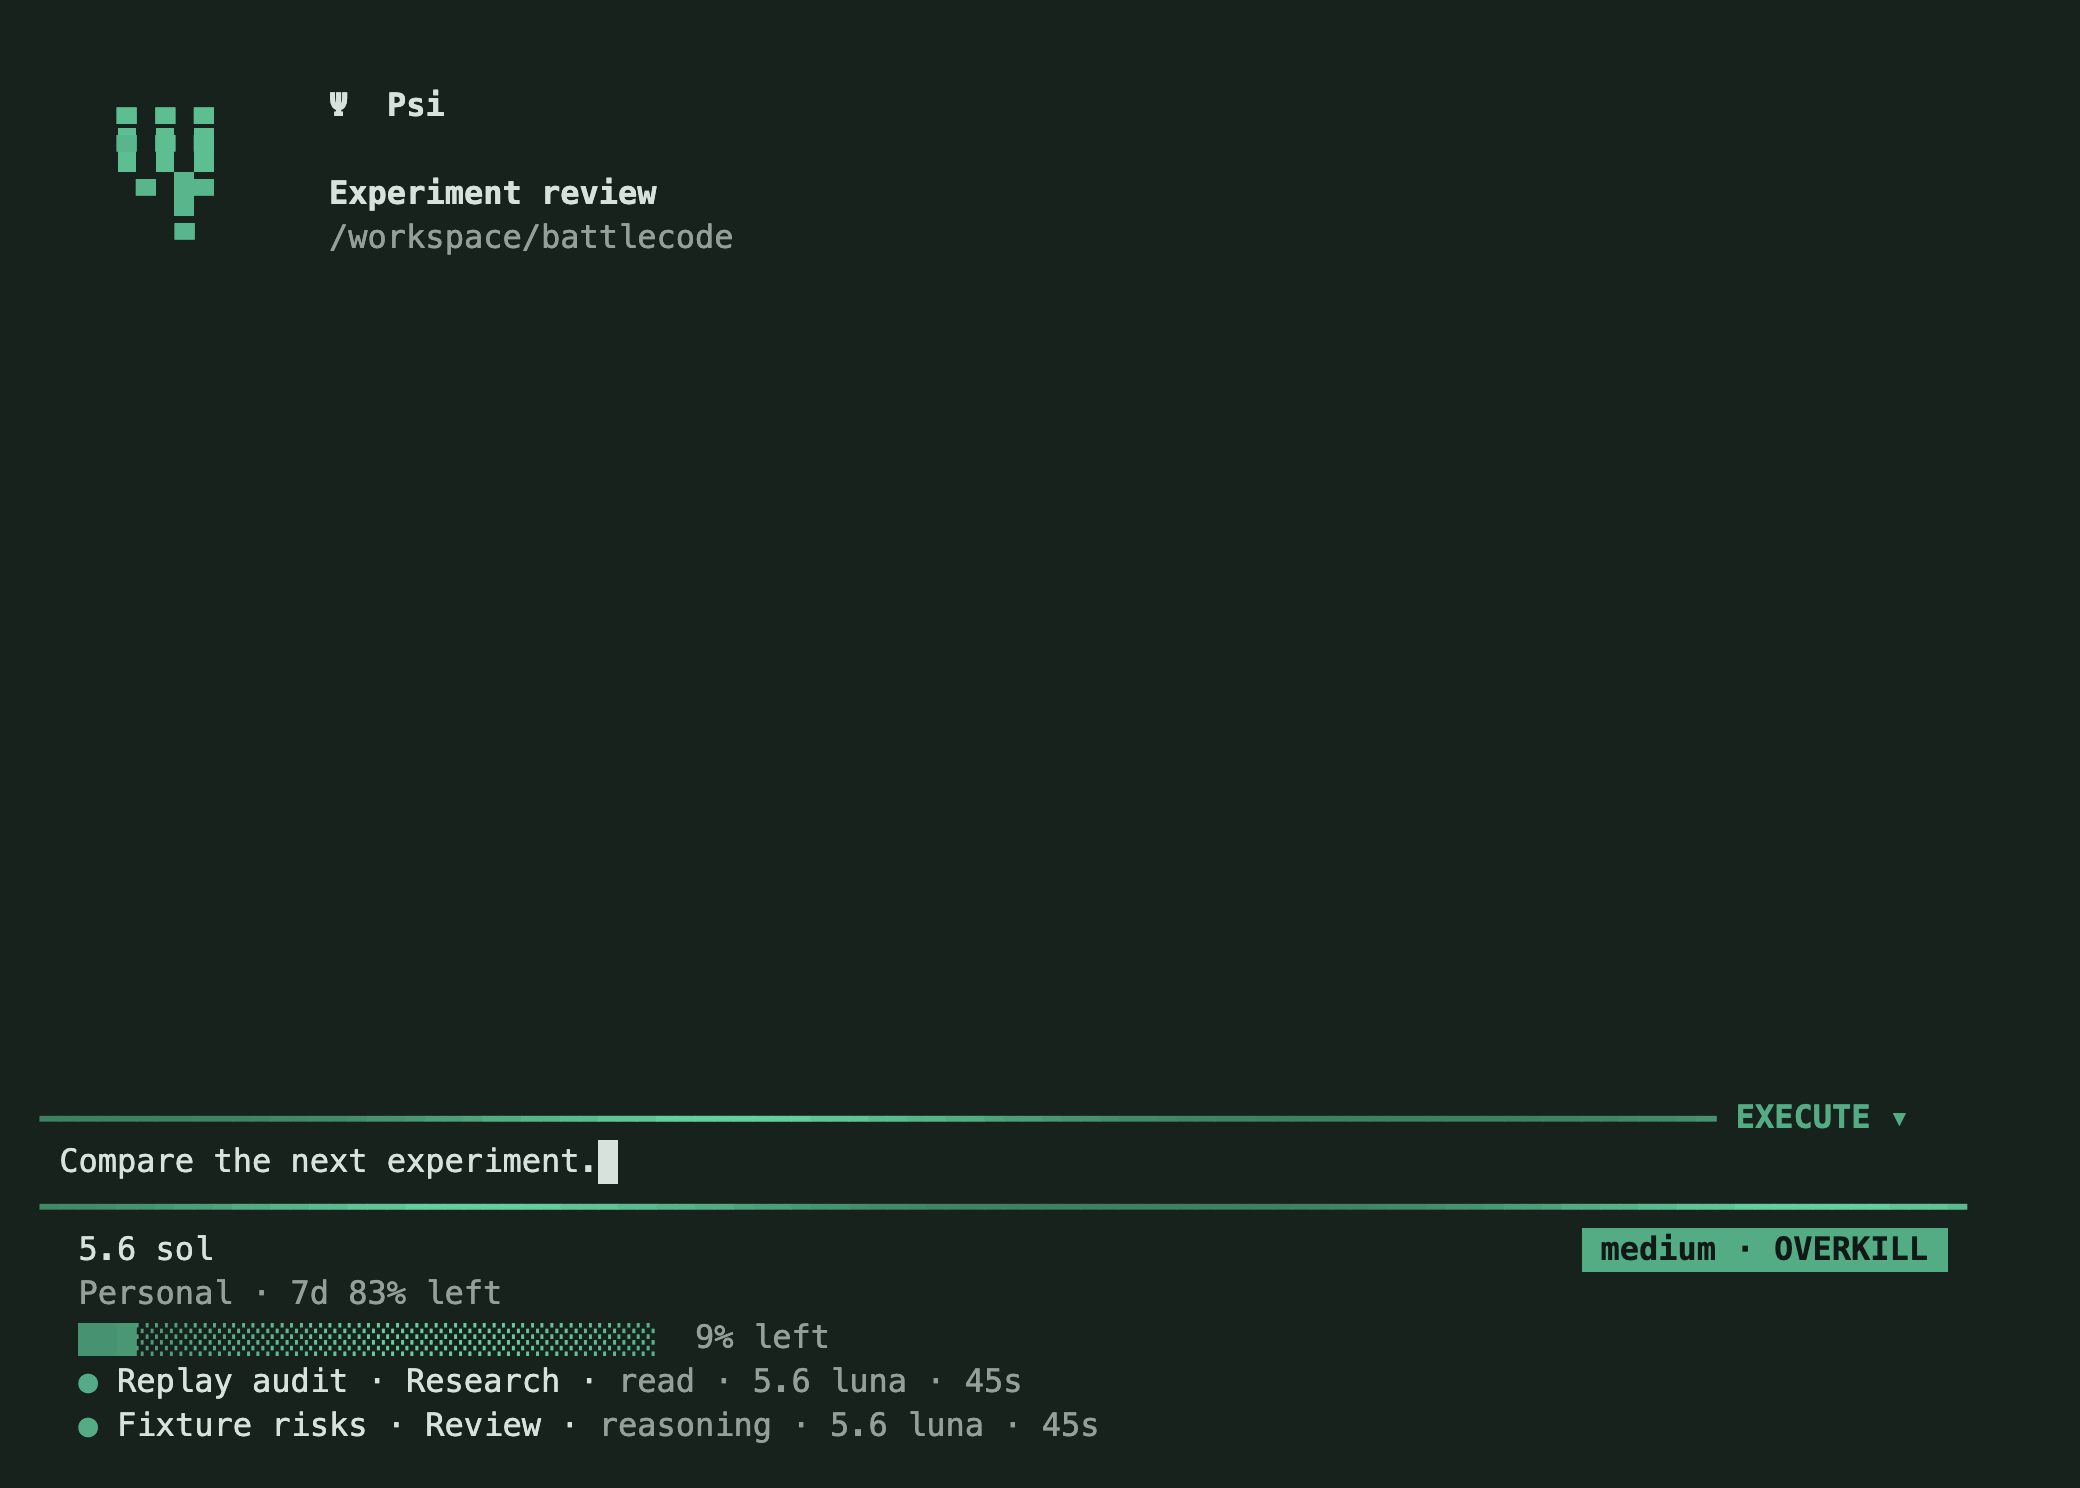
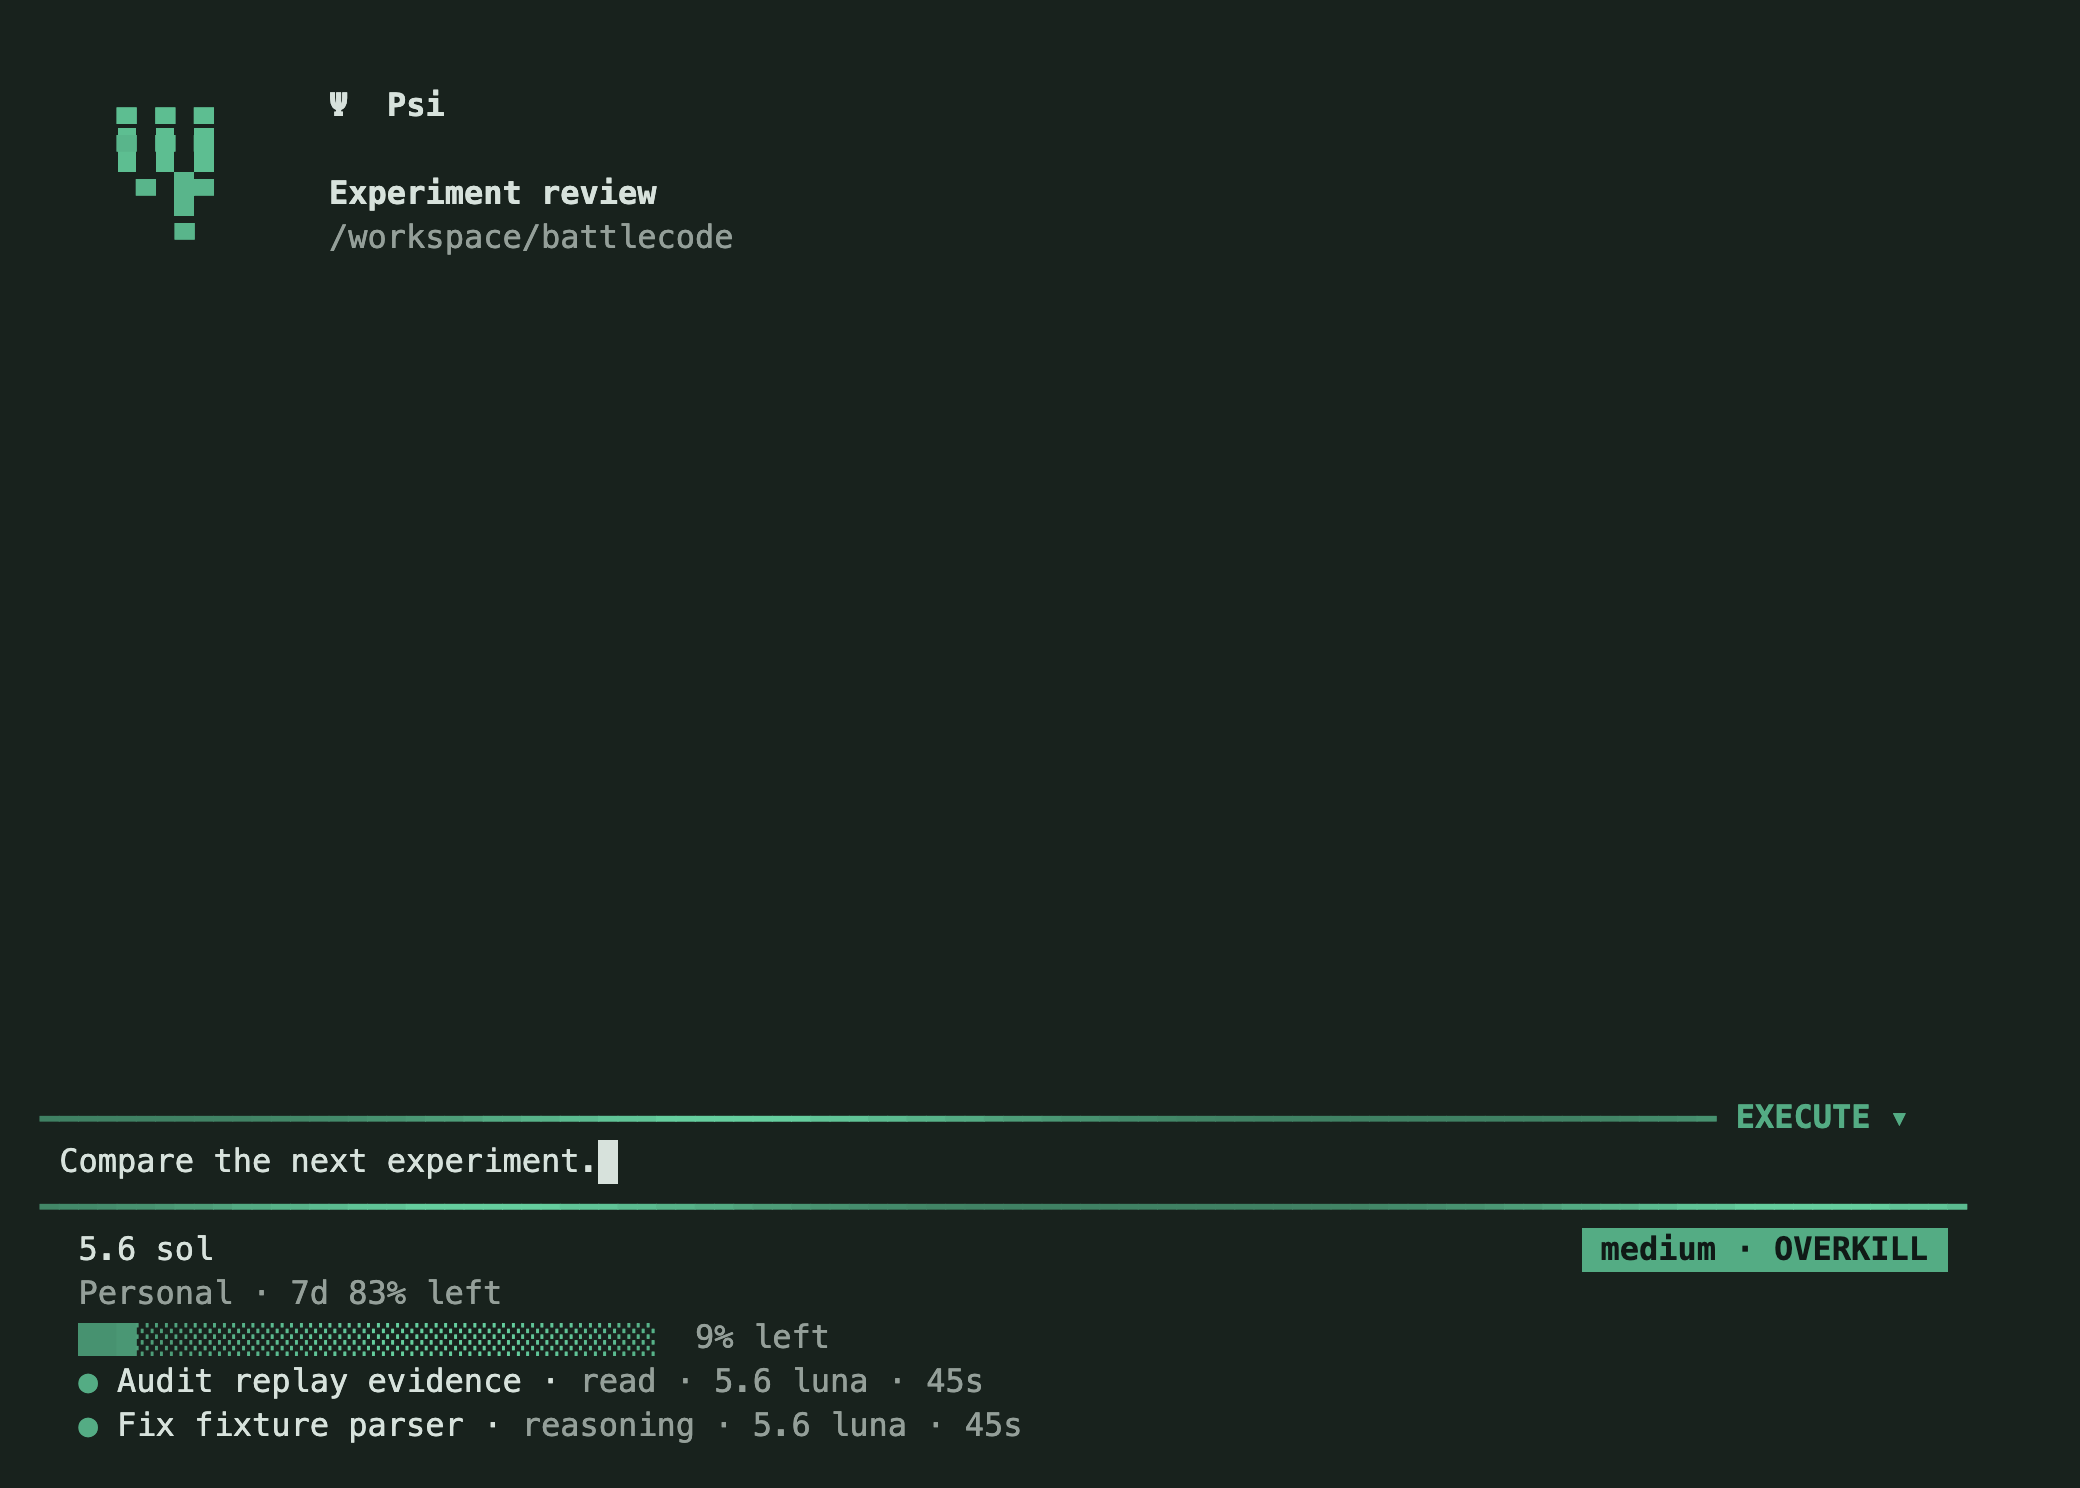
Delegate OVERKILL workers on demand with distinct task names

Changed region(s): [[0.0625, 0.9274, 0.5, 0.9892]]

diff --git a/DESIGN.md b/DESIGN.md
@@ -14,7 +14,7 @@ Use the terminal's configured monospace font. Bold distinguishes product and pic
 
 ## Layout
 
-A fullscreen terminal viewport contains the workspace header, a scrolling conversation and inline selection panel. The multiline prompt is pinned to the bottom on startup, during output and through resizes. Show the current chat name immediately above the session working directory beside the logo. At narrow widths use the compact identity with name and path on separate rows, shortening paths from the left. Task-named subagent status rows sit below the usage bar while active. Hide finished rows immediately without deleting saved records or reports. Show up to three rows, with overflow counted, active tool/status, short model name and elapsed time. The first row beneath the editor shows the model on the left and the bare effort value aligned to the right, with no provider label. A second row shows the active account name. Subscription accounts display only reported usage windows (5h/7d when supplied), omitting absent/unlimited windows. Metered API accounts display the current session cost, or cost unavailable when pricing is unknown. Place the clickable PLAN/EXECUTE control at the right edge of the top input border. Keep draft and slash completion at their native full width without a left gutter. Mode changes produce no conversation messages. The solid accent bottom meter prefers an actual reported five-hour quota, then a weekly or other valid quota. It fills according to percent left: 100% is unused and 0% is exhausted. Only the weekly quota stays beside the account name, avoiding duplication of the five-hour meter; the bar itself shows only the percent left. When no quota exists, clearly label the fallback as estimated goal work remaining. Conversation scrolling and selection use the terminal renderer; the visible document returns to shell scrollback on exit. Pickers filter immediately and expose keyboard hints. Narrow widths truncate metadata before primary actions. Tool results show short previews, with full results in session artifacts.
+A fullscreen terminal viewport contains the workspace header, a scrolling conversation and inline selection panel. The multiline prompt is pinned to the bottom on startup, during output and through resizes. Show the current chat name immediately above the session working directory beside the logo. At narrow widths use the compact identity with name and path on separate rows, shortening paths from the left. Task-named subagent status rows sit below the usage bar while active. OVERKILL enables model-directed delegation rather than launching workers at prompt submission. Require a unique descriptive name of one to five words for each assignment, without role suffixes or repeated prompt prefixes. Worker tasks are unrestricted by researcher/reviewer roles. Hide finished rows immediately without deleting saved records or reports. Show up to three rows, with overflow counted, active tool/status, short model name and elapsed time. The first row beneath the editor shows the model on the left and the bare effort value aligned to the right, with no provider label. A second row shows the active account name. Subscription accounts display only reported usage windows (5h/7d when supplied), omitting absent/unlimited windows. Metered API accounts display the current session cost, or cost unavailable when pricing is unknown. Place the clickable PLAN/EXECUTE control at the right edge of the top input border. Keep draft and slash completion at their native full width without a left gutter. Mode changes produce no conversation messages. The solid accent bottom meter prefers an actual reported five-hour quota, then a weekly or other valid quota. It fills according to percent left: 100% is unused and 0% is exhausted. Only the weekly quota stays beside the account name, avoiding duplication of the five-hour meter; the bar itself shows only the percent left. When no quota exists, clearly label the fallback as estimated goal work remaining. Conversation scrolling and selection use the terminal renderer; the visible document returns to shell scrollback on exit. Pickers filter immediately and expose keyboard hints. Narrow widths truncate metadata before primary actions. Tool results show short previews, with full results in session artifacts.
 
 ## Interaction
 

diff --git a/docs/GUIDE.md b/docs/GUIDE.md
@@ -61,7 +61,7 @@ Click the mode control on the top input border, or press **Shift+Tab**, for **PL
 
 Use `/model` to type a search in the main input bar. The list and footer show model names, such as **5.6 luna**, without provider prefixes. Arrows move through matching models, Enter selects and Escape restores the draft. Duplicate display names are collapsed, preferring the current provider and then connected providers. A provider-specific query or explicit `provider/model` route remains available when you need another endpoint.
 
-Open `/effort` for a compact slider: **←/→** adjust effort, **Tab** stages the right-aligned **OVERKILL** toggle, **Enter** applies and **Escape** cancels. OVERKILL adds a flowing glow in your selected accent around the input bar. Disable Motion for a static accent. Use `/subagents` or the worker entry in `/settings` to set concurrency and edit each worker's name, job, model, thinking, plan/execute mode, request limit and budget independently. With OVERKILL enabled, every new task automatically starts available role-specific advisory workers, up to the configured concurrency. Automatic workers inspect in plan mode, which prevents conflicting edits/builds; the main agent owns implementation and can use `agent` to delegate explicitly scoped execution afterward. The configured profile mode still applies to manually delegated workers.
+Open `/effort` for a compact slider: **←/→** adjust effort, **Tab** stages the right-aligned **OVERKILL** toggle, **Enter** applies and **Escape** cancels. OVERKILL adds a flowing glow in your selected accent around the input bar. Disable Motion for a static accent. Use `/subagents` or the worker entry in `/settings` to set concurrency and edit each worker's name, job, model, thinking, plan/execute mode, request limit and budget independently. With OVERKILL enabled, submitting a prompt starts no workers. The main AI first understands the task, then uses `agent` to delegate useful independent assignments. Each spawn requires a distinct task name of one to five words, such as `Build replay viewer` or `Fix fixture parser`. Missing, generic, overlong and duplicate names are rejected. Workers can implement, debug, build, benchmark, research or do any other assigned task within their directories and mode. Omit `profile` for a general worker on the main model, or select a preset for model, effort and limits. Profile names and job templates do not bind the child to a role. The AI may explicitly choose plan or execute mode; a plan-mode parent always forces read-only children. New installations start with general-purpose worker presets; existing custom presets remain available.
 
 Worker rows below the usage bar show task names, model, active tool/response state and elapsed time. Finished workers disappear automatically; their records and results stay available in `/subagents`. At most three rows are shown; extra active workers are counted and `/subagents` exposes all runs. Completion uses filesystem events rather than inference polling. Reports are delivered at safe model boundaries and must be reviewed before the parent finishes. Interrupted parents can recover reports and deduplicated token receipts from saved journals. Double Escape stops the parent and workers.
 
@@ -118,7 +118,7 @@ Custom endpoint prices default to unknown. Use `/settings` → **API rates** to 
 | `/effort [level]` | Choose a model-supported reasoning effort |
 | `/accounts` | Login, switch or remove accounts |
 | `/directory <path>` | Select the working directory |
-| `/subagents` | Configure worker roles, independent models, thinking and limits |
+| `/subagents` | Configure worker presets, independent models, thinking and limits |
 | `/update` | Install the latest GitHub release |
 | `/settings` | Searchable settings UI for appearance, accounts, models, limits and execution |
 | `/loop [objective]` | Ask for a goal, then work until verified completion or user stop |

diff --git a/README.md b/README.md
@@ -20,7 +20,7 @@ Psi connects models, project files, build tools, browser research and experiment
 | :--- | :--- |
 | **Persistent goals** | Recover through provider failures and quota waits. Resume the journal after an interruption. |
 | **Accounts that travel with the task** | Multiple providers and multiple accounts per provider, reported quotas and optional failover. |
-| **Subagents on demand** | Task-named workers start automatically with OVERKILL. Independent roles, models and effort. |
+| **Subagents on demand** | The AI delegates concrete tasks with OVERKILL. Distinct task names, models and effort. |
 | **Tools in your workspace** | Read, edit, search, run builds, extract websites, browse and launch detached benchmarks. |
 | **Battlecode evidence** | Isolated candidates, durable experiments, replay checks and fresh-fixture confirmation. |
 
@@ -73,7 +73,7 @@ The Ψ header stays visible above compact bottom menus. Chat names sit above the
 | `/name [title]` | Rename the current session |
 | `/help` | Every command |
 
-With **OVERKILL** on, each task starts advisory subagents up to your configured concurrency. Their task names, activity and model appear below the usage bar while active; finished workers hide automatically, with results retained in `/subagents`. Reports return to the main agent before it finishes; implementation can then be delegated with explicit ownership. Subagents use their configured models and selected provider accounts and consume normal provider usage.
+With **OVERKILL** on, the main AI decides when useful independent work should be delegated, up to your configured concurrency. Sending a prompt does not launch workers. Every worker has a unique task name of one to five words and can implement, debug, test, benchmark or research. Their task names, activity and model appear below the usage bar while active; finished workers hide automatically, with results retained in `/subagents`. Reports return to the main agent before it finishes; each assignment includes clear ownership. Subagents use their configured models and selected provider accounts and consume normal provider usage.
 
 Answers use clean Markdown without repeated assistant headings. Reads and searches group under **Exploring / Explored**; commands use **Running / Ran** with indented output. **Ctrl+T** expands tool details.
 

diff --git a/docs/VERIFICATION.md b/docs/VERIFICATION.md
@@ -2,7 +2,7 @@
 
 Verified locally on 2026-10-31 (Australia/Sydney), using isolated temporary homes for tests.
 
-- `npm run verify`: syntax checks and **119 passing tests**.
+- `npm run verify`: syntax checks and **120 passing tests**.
 - Real HTTP SSE requests to a local OpenAI-compatible fixture executed file writes, a detached shell job, website extraction and objective completion. No paid inference was used.
 - A new process can reconstruct messages, usage, pending goals and tool outcomes from the session journal.
 - Tested serialized multi-account refresh, private credential file mode, transient retries, authentication failure handling, budget/request limits, compaction, torn-journal recovery, writer contention, stale-session rejection and cancellation.
@@ -145,3 +145,9 @@ Actual API invoices and real competition transactions were not exercised in this
 
 - `/directory <path>` is the sole directory command; switching rebuilds tools and replaces the previous workspace grant after stopping active session processes. Existing symlink isolation, saved-directory resume and reload checks cover the change.
 - Header labels use `~/` plus the home-relative path with forward slashes. A regression check excludes sibling homes from tilde shortening. Paths outside the home retain their absolute identity.
+
+## Model-directed OVERKILL delegation (0.2.15)
+
+- OVERKILL no longer starts workers before inference or when enabled mid-request. Real local inference fixtures verify zero initial workers, then explicit model assignments, distinct task names, execution through a legacy read-only preset, file changes, result integration and exact-once usage.
+- Workers can use the main model without a preset or select configured model/effort/limit presets. Parent plan mode remains read-only. Finish/report gating, double-Escape cancellation and resume recovery retain coverage.
+- Required names contain one to five words and describe a task. Generic roles and duplicate names (including case/punctuation variants) are rejected before launch, even when requests arrive concurrently. Child sessions persist the same task name.

diff --git a/docs/PARITY.md b/docs/PARITY.md
@@ -1,6 +1,6 @@
 # Pi, Codex and Psi
 
-Compared against the current primary documentation on 2026-10-31 and Psi 0.2.14 source. These are first-class product features; calling an external CLI through Psi's shell is different from providing its own integration.
+Compared against the current primary documentation on 2026-10-31 and Psi 0.2.15 source. These are first-class product features; calling an external CLI through Psi's shell is different from providing its own integration.
 
 | Feature | Available in | Psi today |
 | --- | --- | --- |
